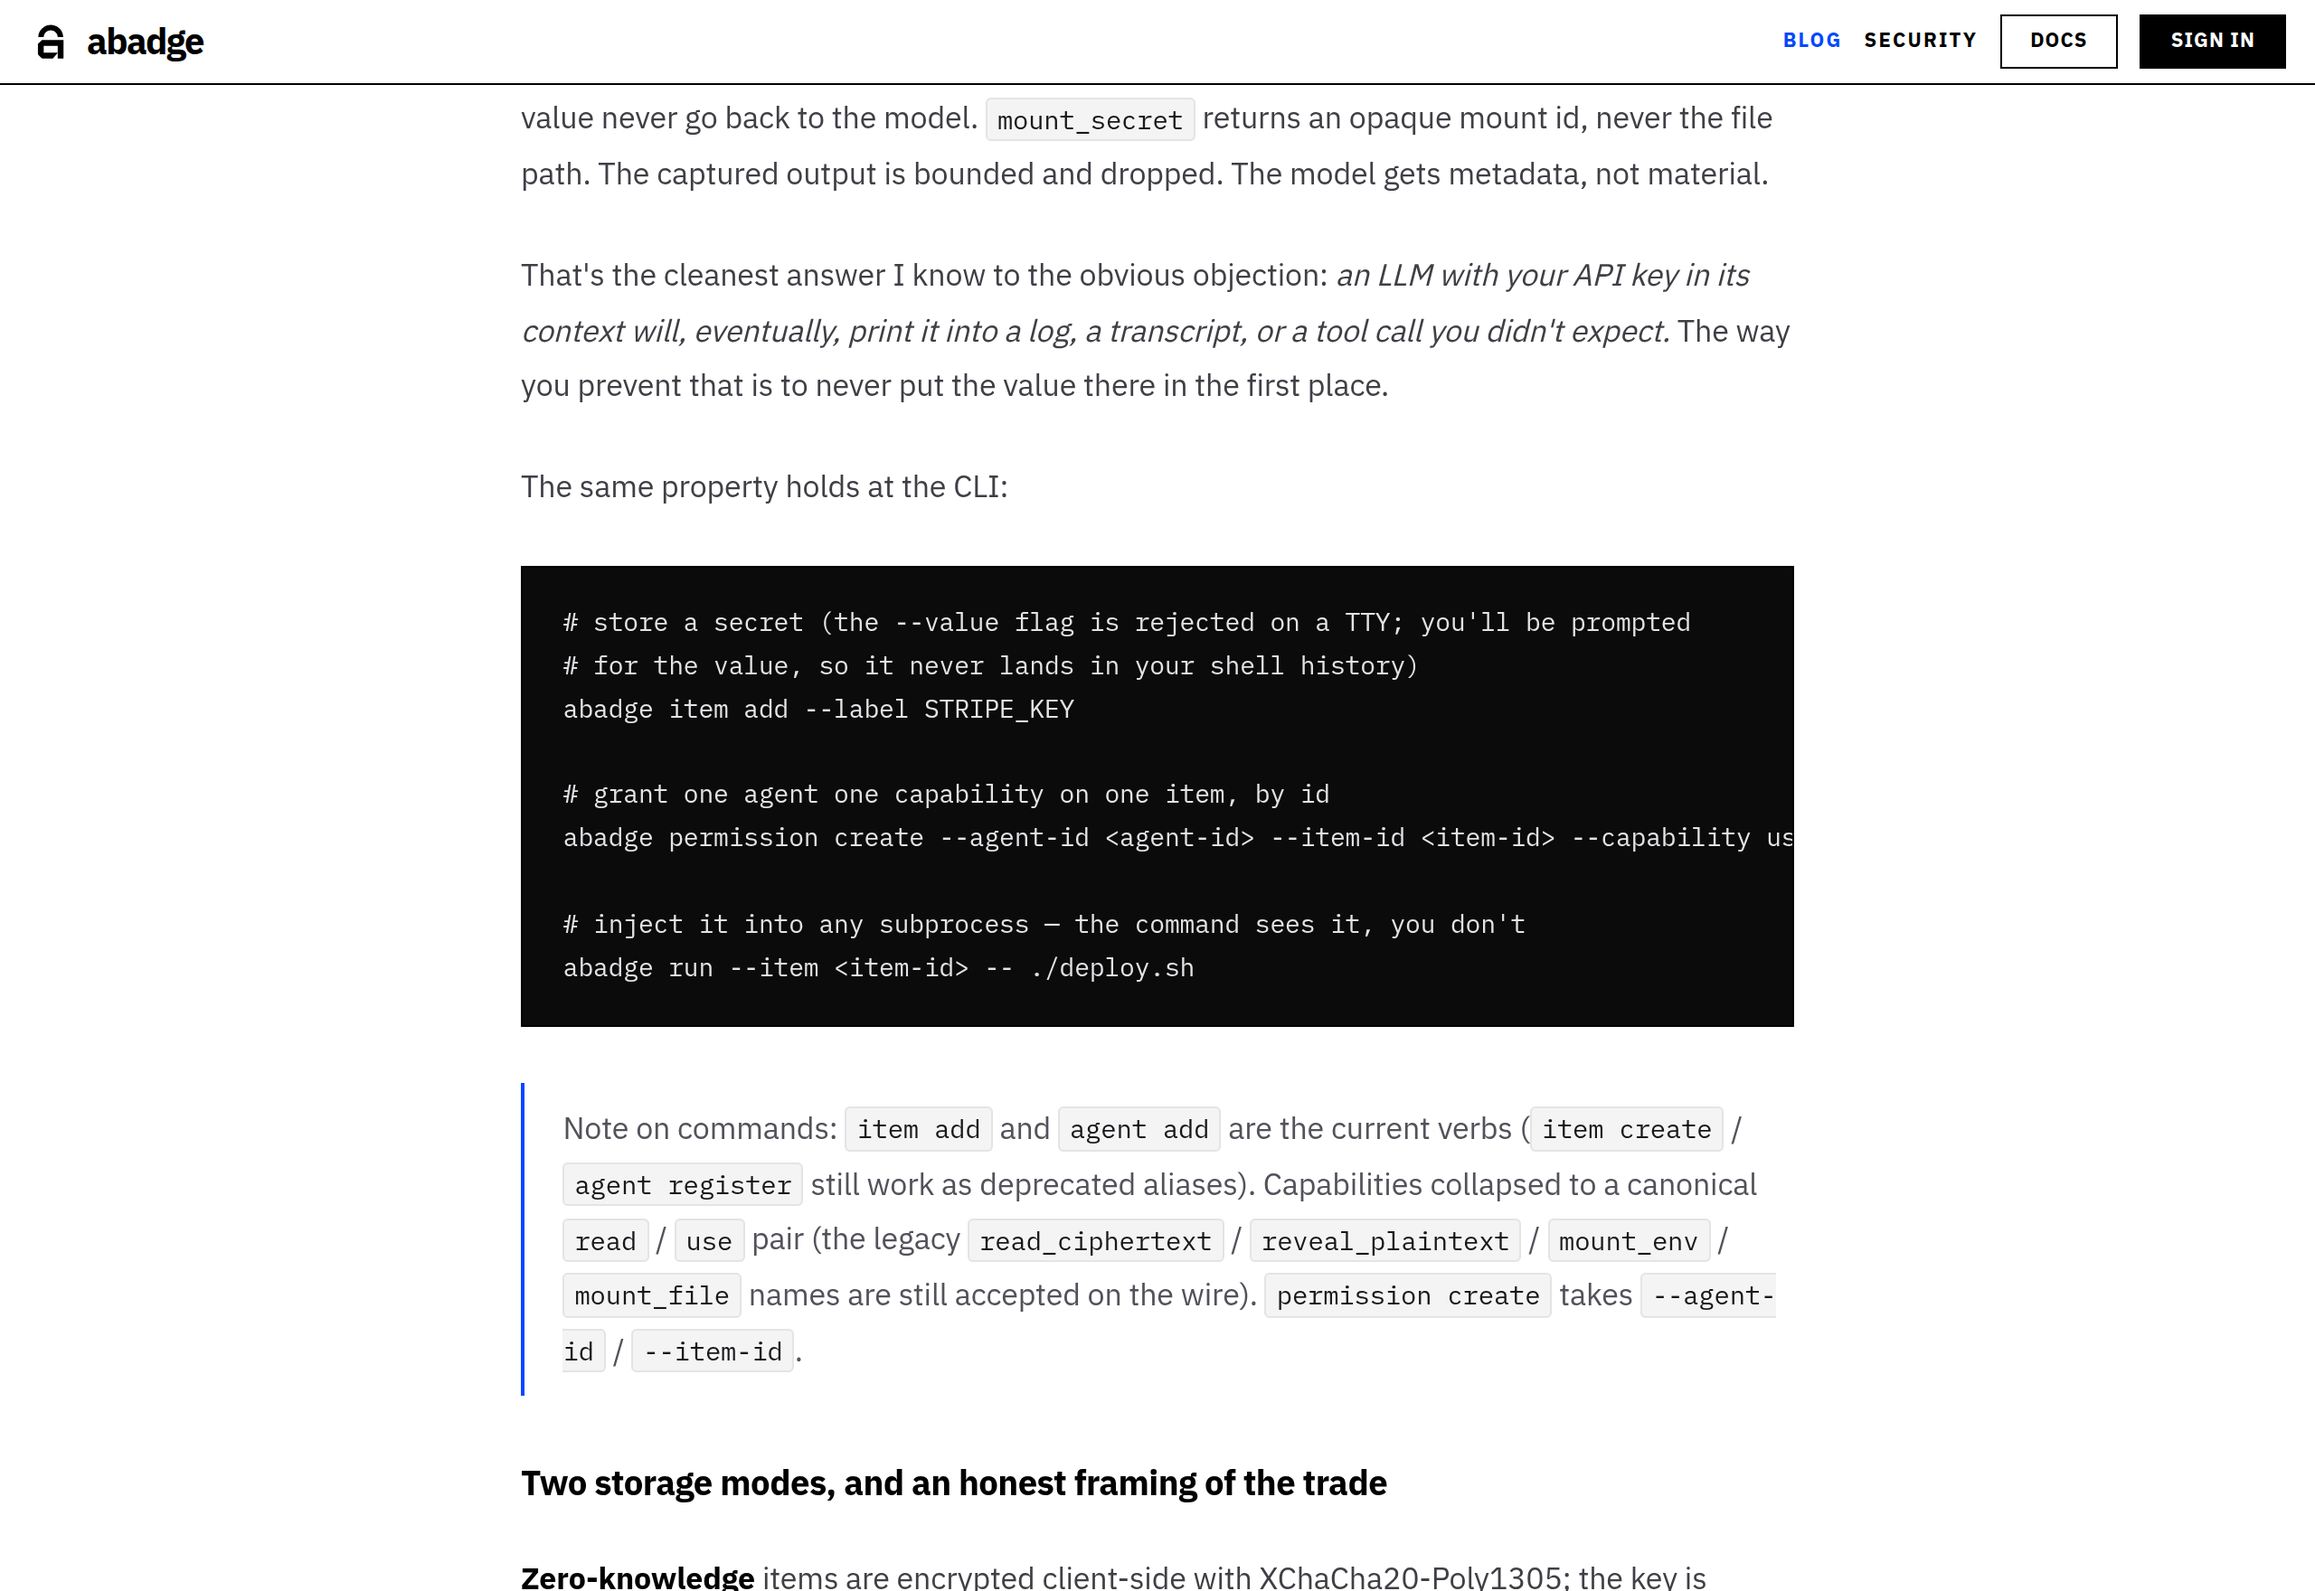
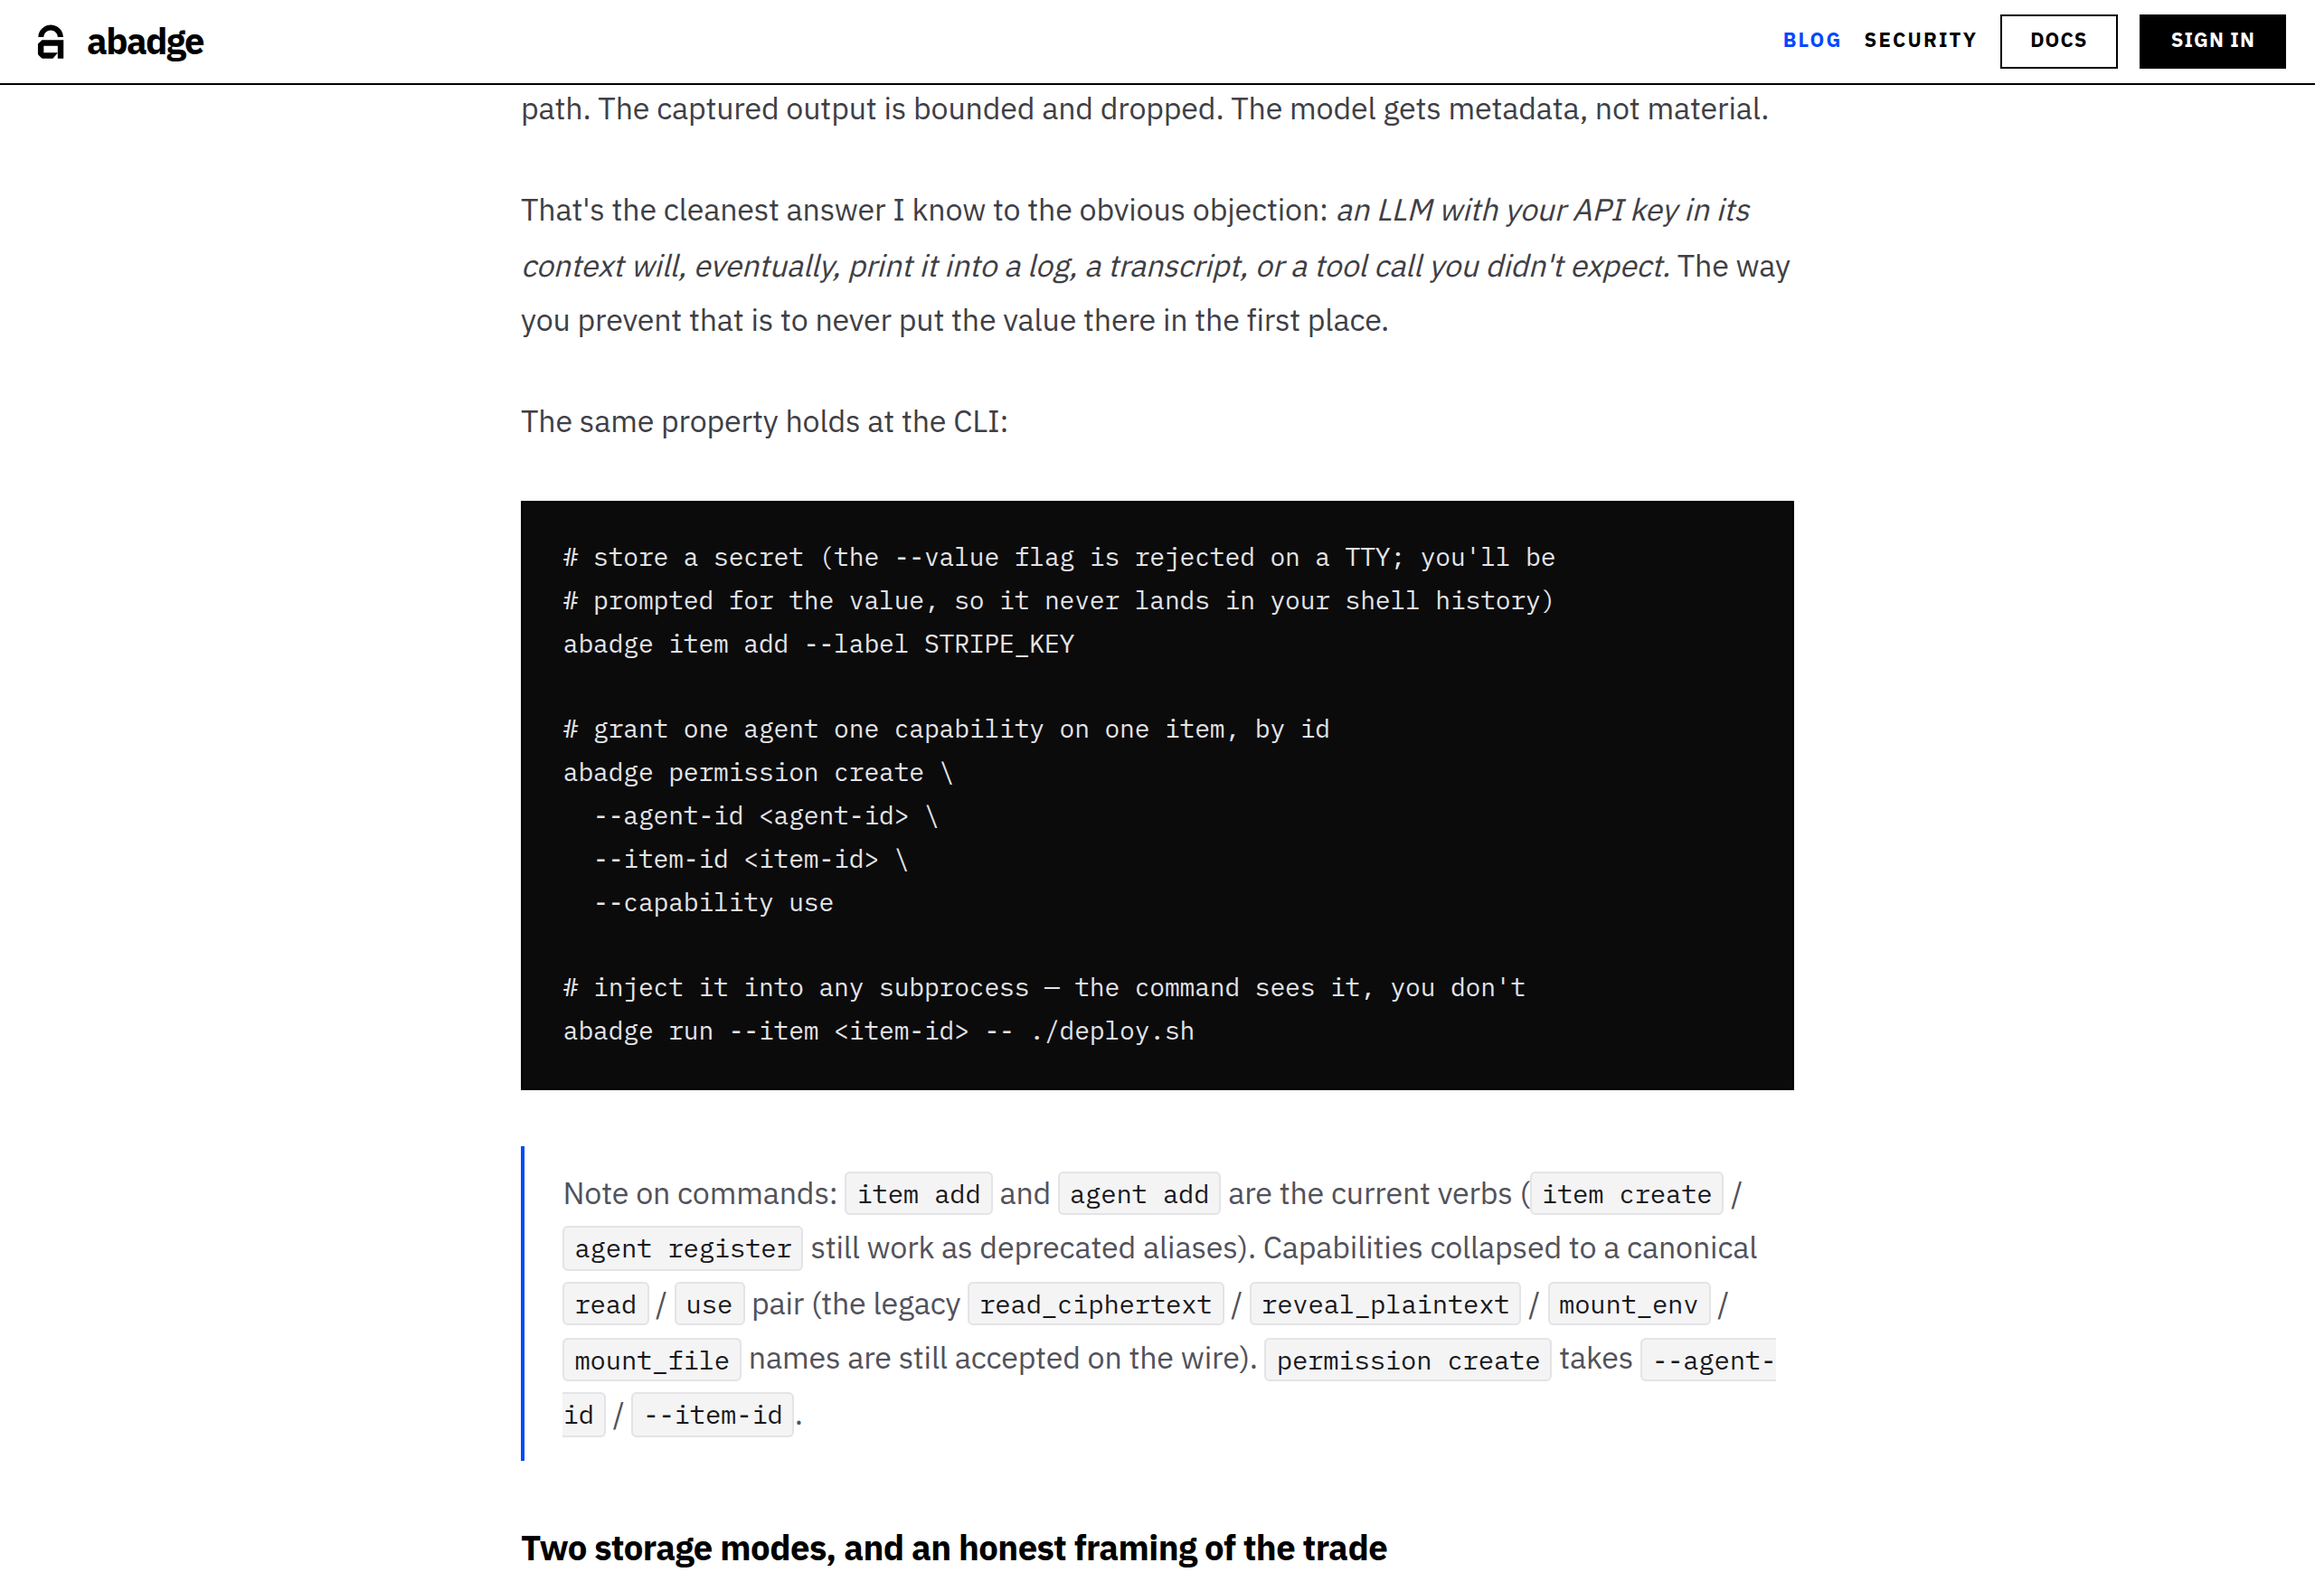
content(blog): set launch date to 2026-06-01 and improve code-block readability
- Launch announcement date -> 2026-06-01 (anticipated launch date).
- Reflow the CLI example so it never scrolls horizontally: the long
  `permission create` invocation uses backslash line continuation across
  indented lines, and the lead comment wraps within the column.
- Add the PR review screenshots under .github/screenshots/blog/ (a prior
  commit recorded the message but not the files); refreshed to show the
  June 1 date and the reflowed code block.

https://claude.ai/code/session_01Vnduk1SDhKQPkJiYEXxq6v

diff --git a/apps/web/content/blog/launch-announcement.md b/apps/web/content/blog/launch-announcement.md
@@ -2,7 +2,7 @@
 title: "abadge: a credential control plane for AI agents"
 summary: "Why I built a vault that hands secrets to agents without the value ever entering the model's context — and an honest accounting of what's shipped and what isn't."
 seoDescription: "abadge is a credential control plane for AI agents: store secrets zero-knowledge, grant scoped per-secret access, and deliver them to a command or MCP tool without the value ever entering the model's context. An honest beta launch."
-date: "2026-05-29"
+date: "2026-06-01"
 author: "Punit Arani"
 category: "Launch Announcement"
 published: true
@@ -40,12 +40,15 @@ That's the cleanest answer I know to the obvious objection: *an LLM with your AP
 The same property holds at the CLI:
 
 ```bash
-# store a secret (the --value flag is rejected on a TTY; you'll be prompted
-# for the value, so it never lands in your shell history)
+# store a secret (the --value flag is rejected on a TTY; you'll be
+# prompted for the value, so it never lands in your shell history)
 abadge item add --label STRIPE_KEY
 
 # grant one agent one capability on one item, by id
-abadge permission create --agent-id <agent-id> --item-id <item-id> --capability use
+abadge permission create \
+  --agent-id <agent-id> \
+  --item-id <item-id> \
+  --capability use
 
 # inject it into any subprocess — the command sees it, you don't
 abadge run --item <item-id> -- ./deploy.sh
